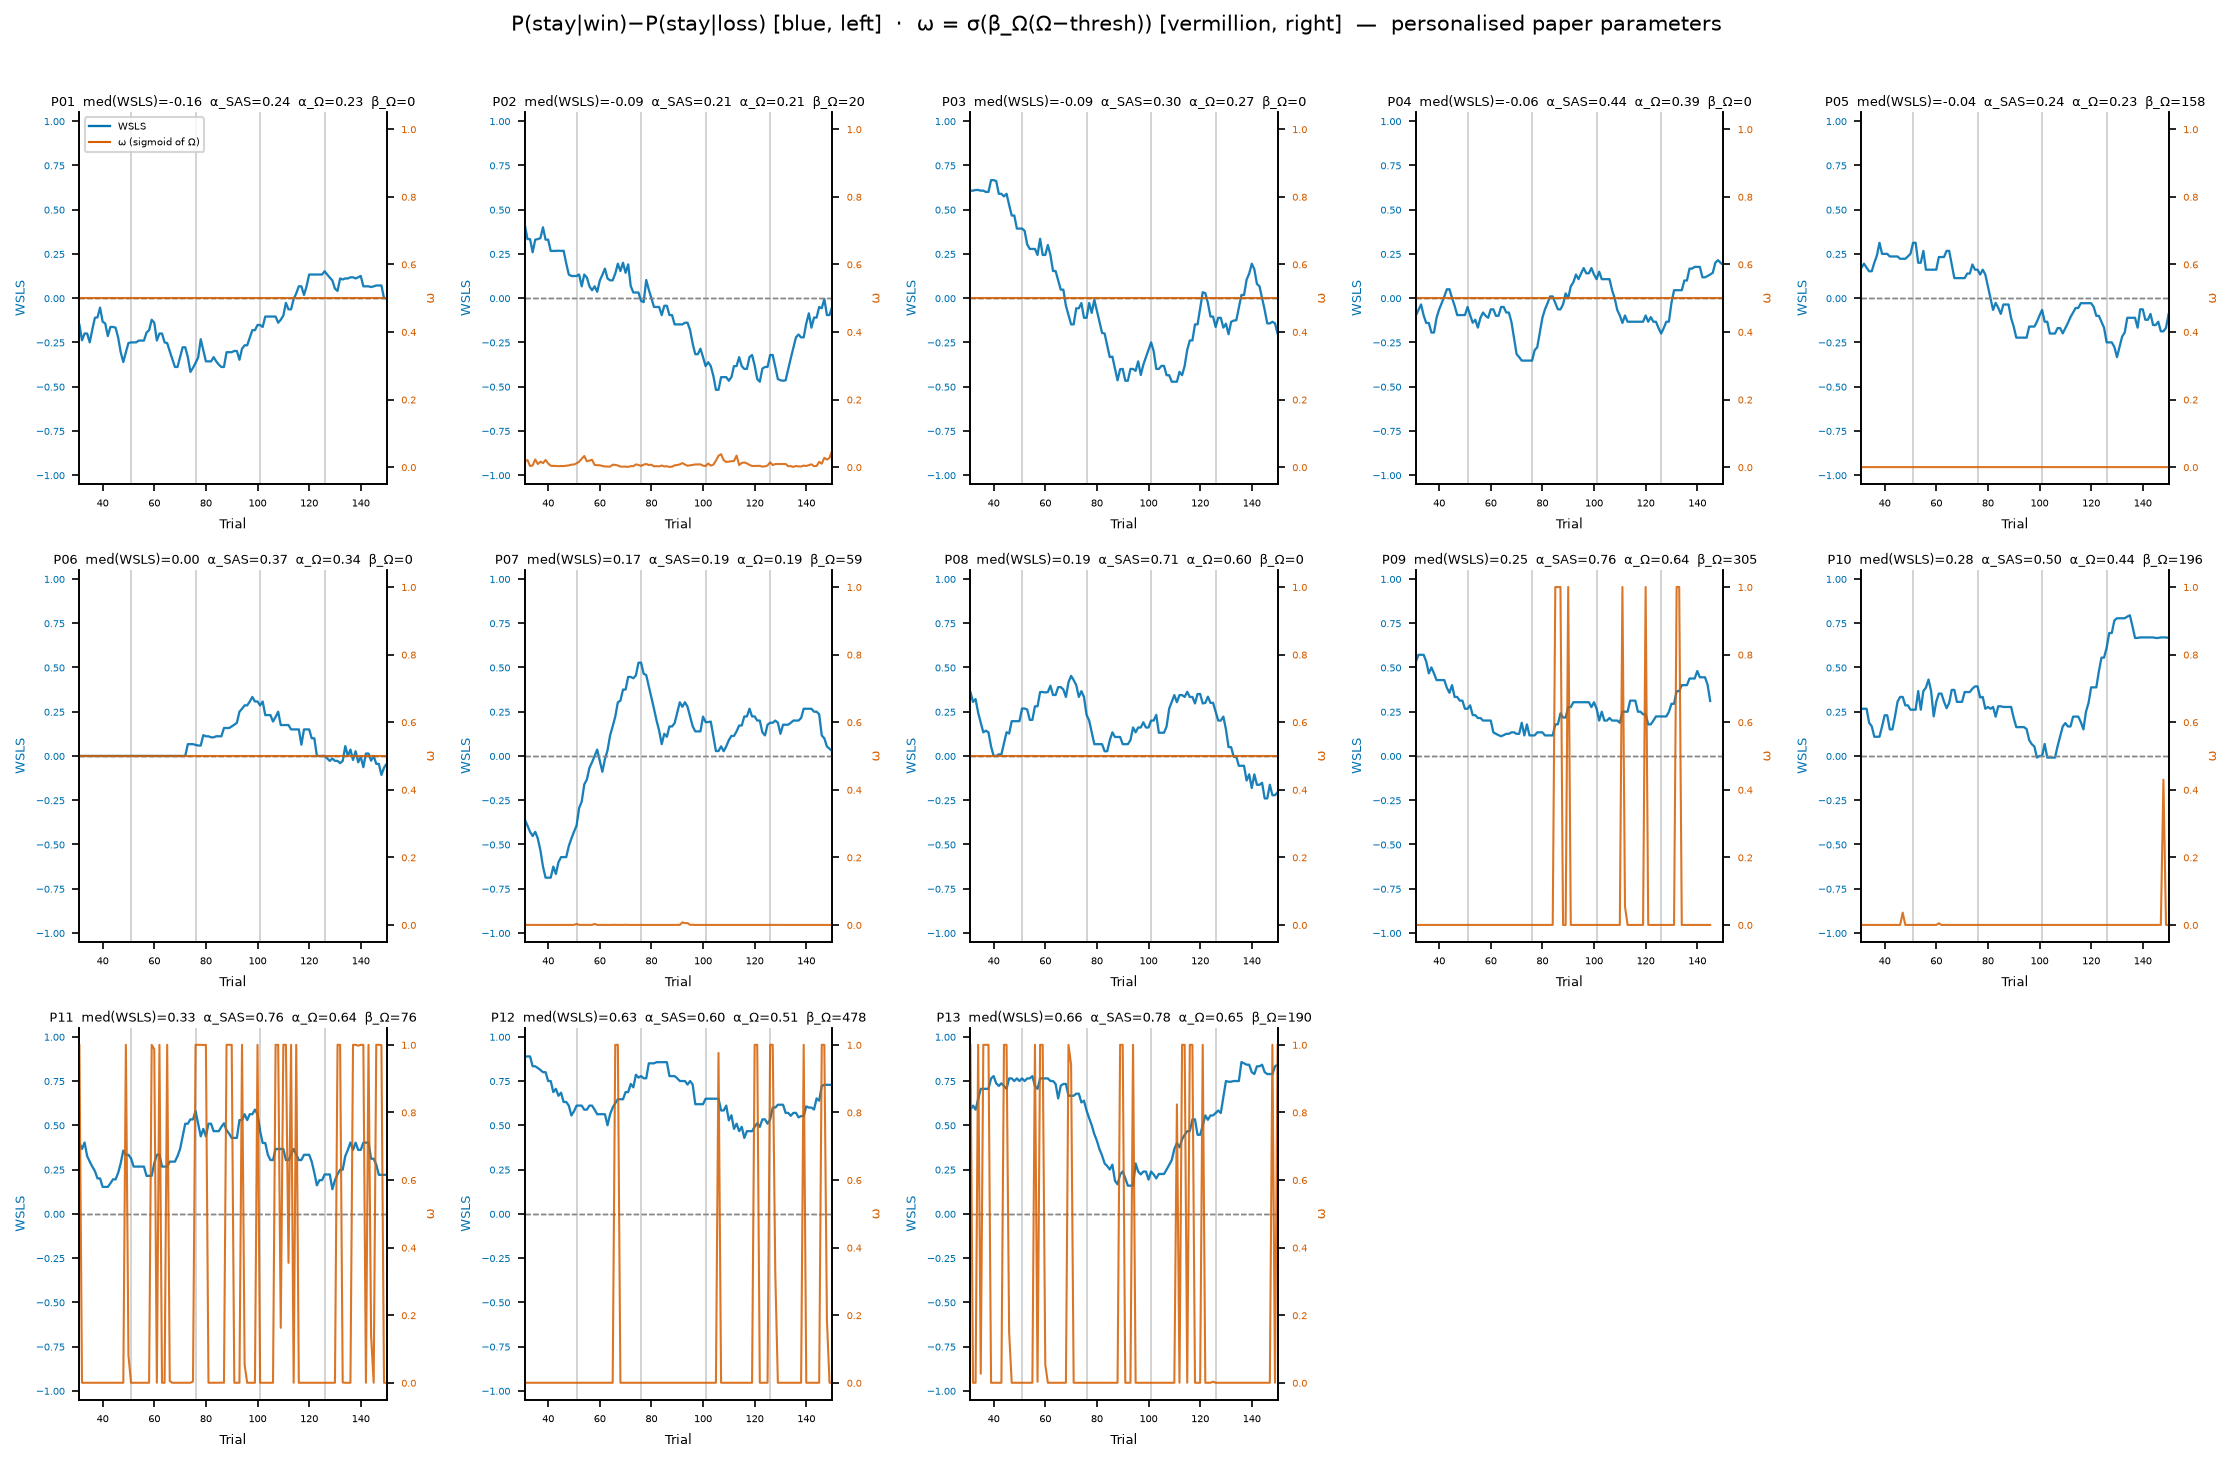
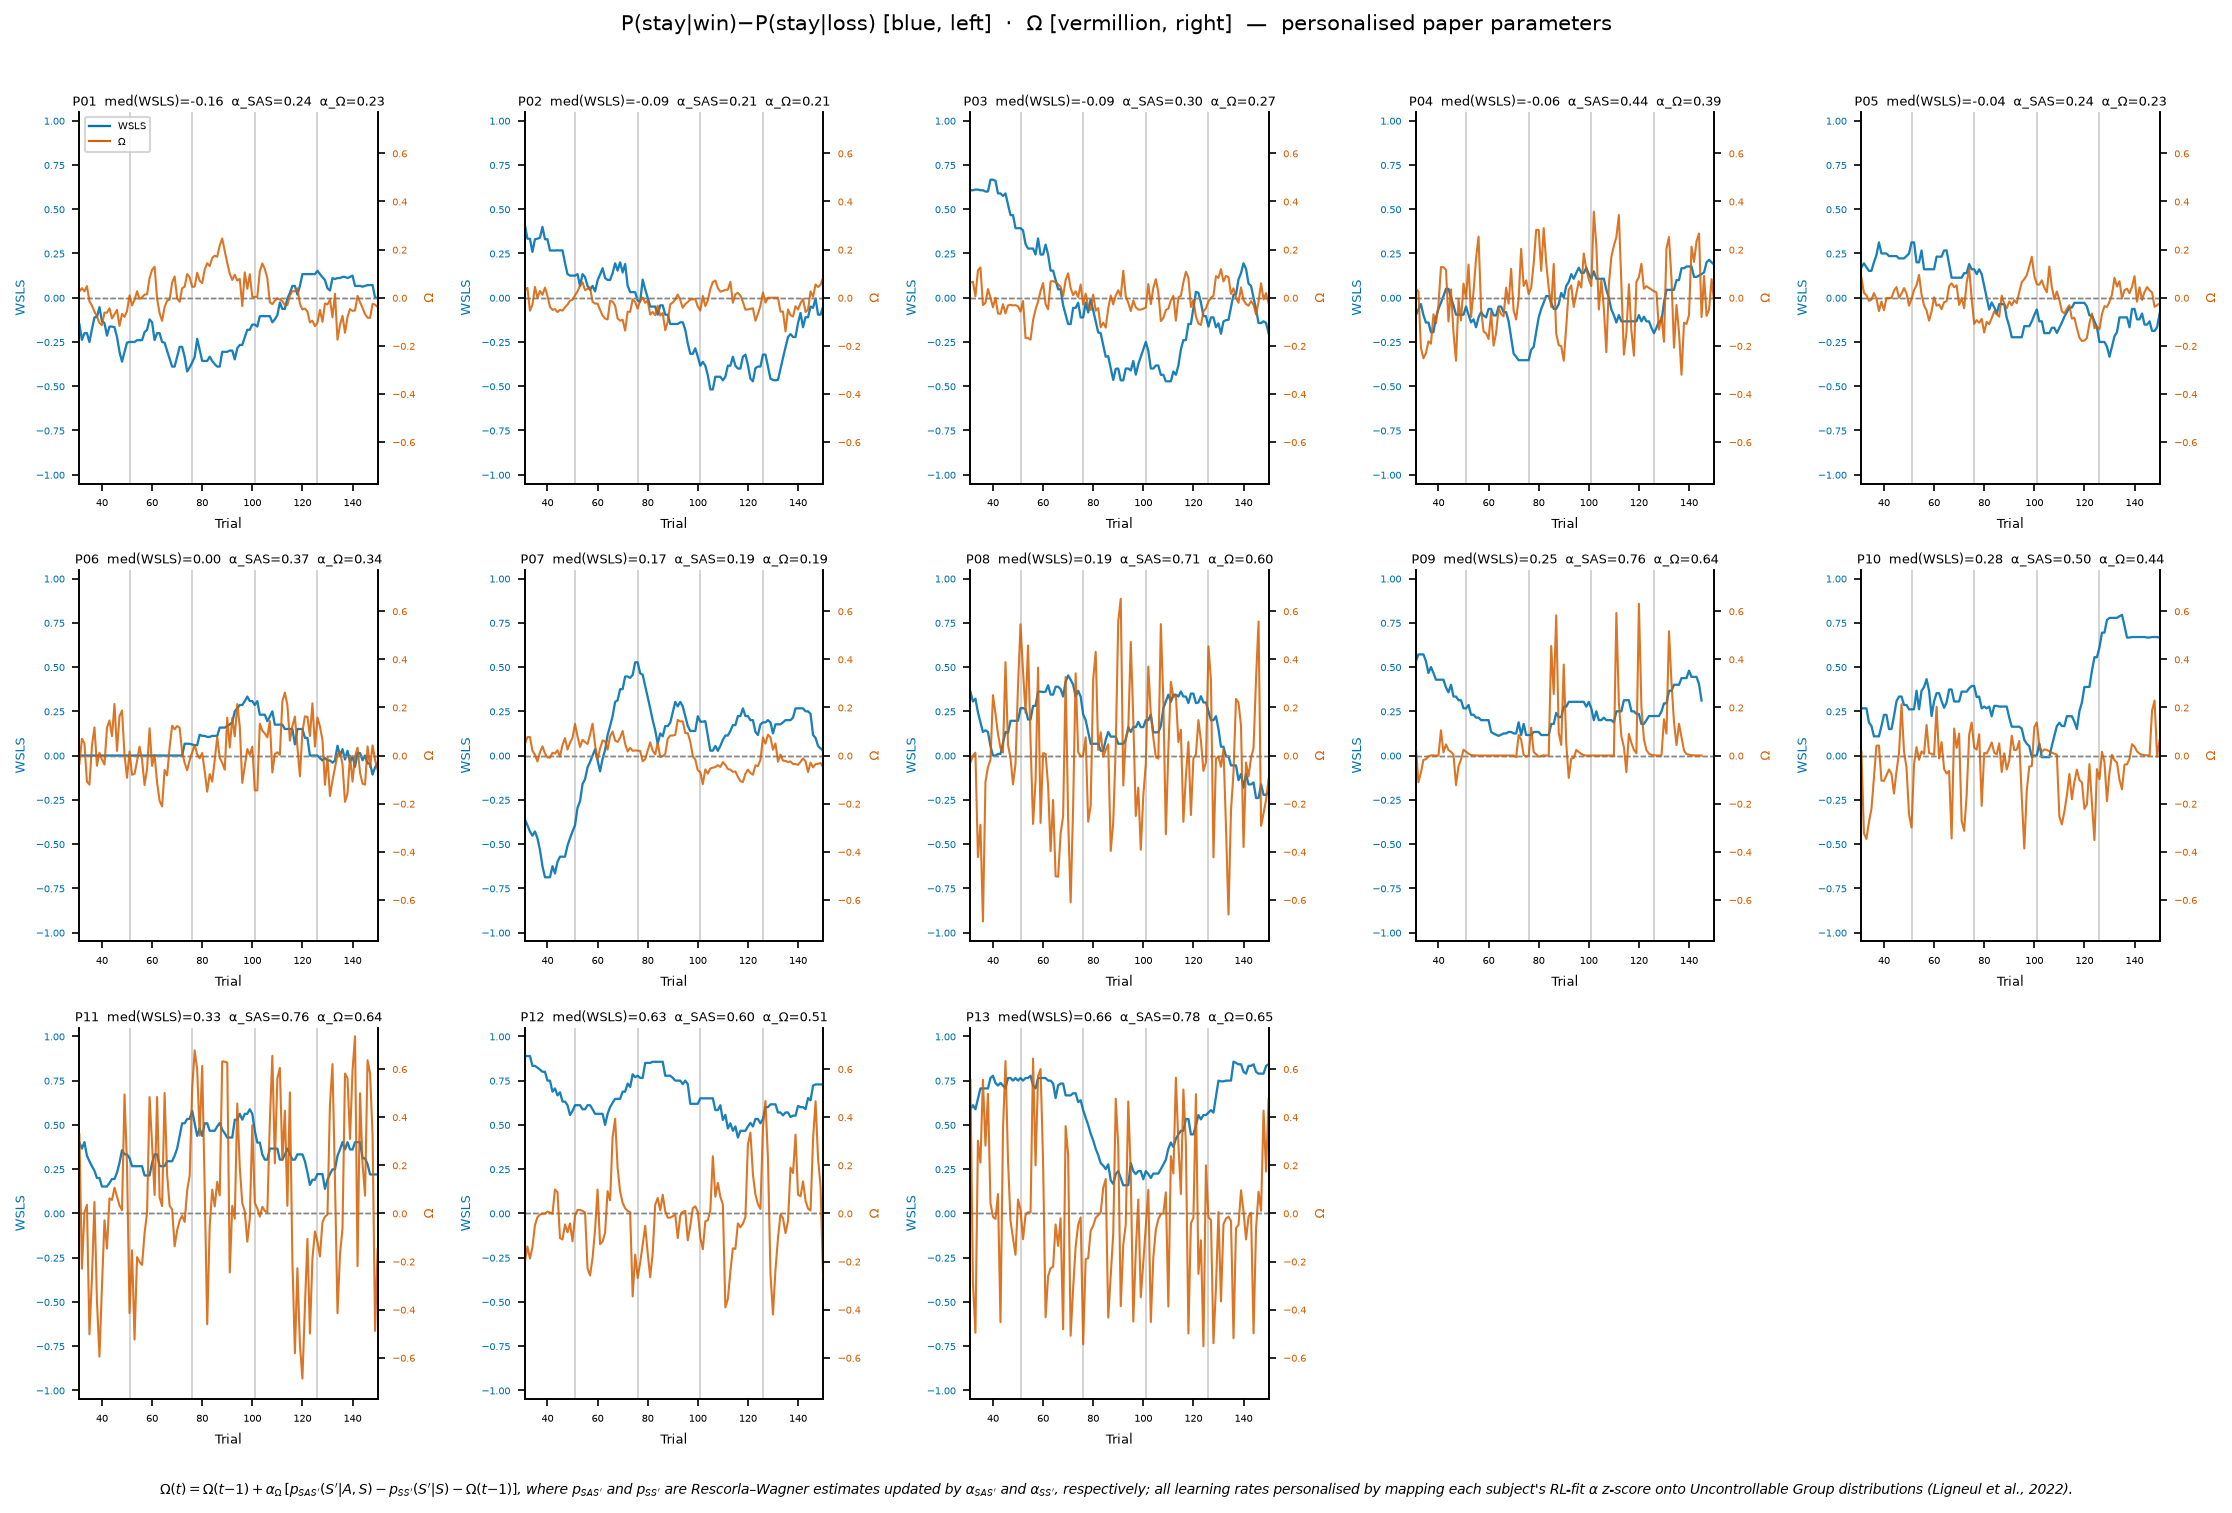
Plot Ω on fixed global scale with academic caption
- Plot big Ω (not sigmoid ω) with right y-axis fixed to global max |Ω|
  across all 13 subjects (±0.77), making all panels directly comparable
- Add academic caption describing the leaky-integrator TE formula and
  z-score personalisation from Ligneul et al. (2022)

Claude-Session: https://claude.ai/code/session_019wzScn3HGgyLKJhpLSofF8

diff --git a/analysis/running_wsls/running_wsls_te.py b/analysis/running_wsls/running_wsls_te.py
@@ -164,9 +164,20 @@ def omega_to_small(omega_trace, beta_om, thresh=THRESH_OM):
     return 1.0 / (1.0 + np.exp(-beta_om * (omega_trace - thresh)))
 
 
+CAPTION = (
+    r"$\Omega(t) = \Omega(t{-}1) + \alpha_\Omega\,[p_{SAS'}(S'|A,S) - p_{SS'}(S'|S) - \Omega(t{-}1)]$, "
+    r"where $p_{SAS'}$ and $p_{SS'}$ are Rescorla–Wagner estimates updated by $\alpha_{SAS'}$ "
+    r"and $\alpha_{SS'}$, respectively; all learning rates personalised by mapping each subject's "
+    r"RL-fit $\alpha$ z-score onto Uncontrollable Group distributions (Ligneul et al., 2022)."
+)
+
+
 # ── plotting ──────────────────────────────────────────────────────────────────
-def plot_wsls_omega(subjects, out_path):
-    """3×5 grid (13 panels): WSLS on left y-axis, ω on right y-axis."""
+def plot_wsls_omega(subjects, omega_lim, out_path):
+    """
+    3×5 grid (13 panels): WSLS on left y-axis, Ω on right y-axis.
+    omega_lim : shared y-limit for all right axes (global max |Ω| across subjects).
+    """
     n     = len(subjects)
     ncols = 5
     nrows = int(np.ceil(n / ncols))
@@ -178,8 +189,8 @@ def plot_wsls_omega(subjects, out_path):
         ax_l = axes_flat[i]
         ax_r = ax_l.twinx()
 
-        ax_l.axhline(0,   color=ZERO_COL, linewidth=0.7, linestyle="--", zorder=1)
-        ax_r.axhline(0.5, color=ZERO_COL, linewidth=0.7, linestyle="--", zorder=1)
+        ax_l.axhline(0, color=ZERO_COL, linewidth=0.7, linestyle="--", zorder=1)
+        ax_r.axhline(0, color=ZERO_COL, linewidth=0.7, linestyle="--", zorder=1)
         for bs in BLOCK_STARTS:
             ax_l.axvline(bs, color=BLOCK_COL, linewidth=0.8, zorder=1)
 
@@ -189,16 +200,15 @@ def plot_wsls_omega(subjects, out_path):
         ax_l.set_ylabel("WSLS", fontsize=6, color=WSLS_COL)
         ax_l.tick_params(axis="y", labelsize=5, labelcolor=WSLS_COL)
 
-        # ω — right y-axis
-        ax_r.plot(s["x"], s["small_omega"], color=OM_COL, linewidth=1.0, alpha=0.85, zorder=2)
-        ax_r.set_ylim(-0.05, 1.05)
-        ax_r.set_ylabel("ω", fontsize=6, color=OM_COL)
+        # Ω — right y-axis, fixed global scale
+        ax_r.plot(s["x"], s["big_omega"], color=OM_COL, linewidth=1.0, alpha=0.85, zorder=2)
+        ax_r.set_ylim(-omega_lim, omega_lim)
+        ax_r.set_ylabel("Ω", fontsize=6, color=OM_COL)
         ax_r.tick_params(axis="y", labelsize=5, labelcolor=OM_COL)
 
         ax_l.set_title(
             f"P{i+1:02d}  med(WSLS)={s['median_wsls']:.2f}"
-            f"  α_SAS={s['alpha_sas']:.2f}  α_Ω={s['alpha_om']:.2f}"
-            f"  β_Ω={s['beta_om']:.0f}",
+            f"  α_SAS={s['alpha_sas']:.2f}  α_Ω={s['alpha_om']:.2f}",
             fontsize=6, pad=3,
         )
         ax_l.set_xlim(WINDOW + 1, 150)
@@ -209,7 +219,7 @@ def plot_wsls_omega(subjects, out_path):
 
     legend_elements = [
         Line2D([0], [0], color=WSLS_COL, linewidth=1.1, label="WSLS"),
-        Line2D([0], [0], color=OM_COL,   linewidth=1.0, label="ω (sigmoid of Ω)"),
+        Line2D([0], [0], color=OM_COL,   linewidth=1.0, label="Ω"),
     ]
     axes_flat[0].legend(handles=legend_elements, fontsize=5, loc="upper left")
 
@@ -217,10 +227,11 @@ def plot_wsls_omega(subjects, out_path):
         axes_flat[j].set_visible(False)
 
     fig.suptitle(
-        "P(stay|win)−P(stay|loss) [blue, left]  ·  "
-        "ω = σ(β_Ω(Ω−thresh)) [vermillion, right]  —  personalised paper parameters",
+        "P(stay|win)−P(stay|loss) [blue, left]  ·  Ω [vermillion, right]  —  personalised paper parameters",
         fontsize=10, y=1.01,
     )
+    fig.text(0.5, -0.01, CAPTION, ha="center", va="top", fontsize=6.5, style="italic",
+             wrap=True, transform=fig.transFigure)
     plt.tight_layout()
     plt.savefig(out_path, dpi=150, bbox_inches="tight")
     plt.close(fig)
@@ -261,7 +272,7 @@ def main():
         s["alpha_om"]  = float(np.clip(PAPER_MU_OM   + z_alpha[idx] * PAPER_SD_OM,   EPS, 1 - EPS))
         s["beta_om"]   = float(np.clip(PAPER_MU_BETA + z_beta[idx]  * PAPER_SD_BETA, EPS, np.inf))
 
-    # ── compute WSLS + Ω + ω per subject ─────────────────────────────────────
+    # ── compute WSLS + Ω per subject ─────────────────────────────────────────
     for s in valid:
         s["x"], s["wsls"] = running_wsls(s["choices"], s["rewards"])
         s["median_wsls"]  = float(np.nanmedian(s["wsls"]))
@@ -270,15 +281,17 @@ def main():
             s["choices"], s["rewards"],
             s["alpha_sas"], s["alpha_ss"], s["alpha_om"],
         )
-        small_omega_trace = omega_to_small(omega_trace, s["beta_om"])
+        trial_idx      = s["x"] - 1   # 0-based indices for 1-based trial numbers
+        s["big_omega"] = omega_trace[trial_idx]
 
-        trial_idx          = s["x"] - 1   # 0-based indices for 1-based trial numbers
-        s["small_omega"]   = small_omega_trace[trial_idx]
+    # global Ω limit: max |Ω| across all subjects (makes all right axes comparable)
+    omega_lim = max(np.nanmax(np.abs(s["big_omega"])) for s in valid) * 1.05
+    print(f"Global Ω limit: ±{omega_lim:.4f}")
 
     # sort by median WSLS ascending
     valid.sort(key=lambda s: s["median_wsls"])
 
-    plot_wsls_omega(valid, out_path="running_wsls_te_paper.png")
+    plot_wsls_omega(valid, omega_lim=omega_lim, out_path="running_wsls_te_paper.png")
     print("Done.")
 
 
